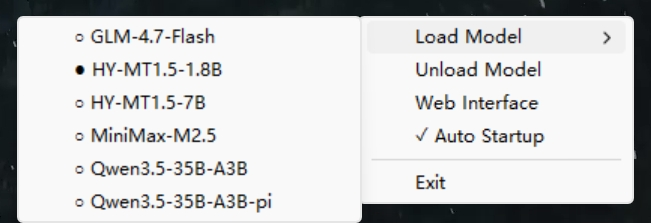
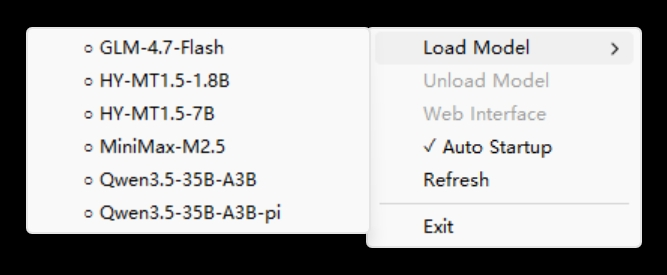
feat(tray): Added configuration refresh functionality
- Add a refresh button to the system tray menu to allow users to reload the configuration and rescan the model.
- Implement the refreshConfigAndModels function to handle configuration reloading and model rescanning logic.
- Updated the README and README_zh.md documents, adding instructions for the configuration refresh function.
- The refresh function can reload the configuration and model list without restarting the program.

diff --git a/main.go b/main.go
@@ -65,6 +65,7 @@ var (
 		unloadModel  *systray.MenuItem
 		webInterface *systray.MenuItem
 		autoStart    *systray.MenuItem
+		refresh      *systray.MenuItem
 		quit         *systray.MenuItem
 		models       []*systray.MenuItem
 		modelConfigs [][]*systray.MenuItem
@@ -662,6 +663,13 @@ func buildMenuOnce() {
 		}
 	}()
 
+	menuItems.refresh = systray.AddMenuItem("Refresh", "Reload config and rescan models")
+	go func() {
+		for range menuItems.refresh.ClickedCh {
+			refreshConfigAndModels()
+		}
+	}()
+
 	systray.AddSeparator()
 
 	menuItems.quit = systray.AddMenuItem("Exit", "Exit program")
@@ -1077,4 +1085,62 @@ func waitForModelShutdown(instance *modelInstance) {
 			return
 		}
 	}
+}
+
+func refreshConfigAndModels() {
+	if err := loadConfig(); err != nil {
+		log.Printf("Failed to reload config: %v", err)
+		return
+	}
+
+	models, err := findGGUFFiles(config.ModelDir)
+	if err != nil {
+		log.Printf("Error scanning model files: %v", err)
+		return
+	}
+
+	currentModels = models
+
+	for i := 0; i < len(menuItems.models); i++ {
+		menuItems.models[i].Hide()
+	}
+
+	menuItems.models = []*systray.MenuItem{}
+	menuItems.modelConfigs = [][]*systray.MenuItem{}
+
+	for i := 0; i < len(currentModels); i++ {
+		m := currentModels[i]
+
+		modelConfigs := []ModelConfig{}
+		for _, cfg := range config.ModelSpecificArgs {
+			if cfg.Target == m.BaseName {
+				modelConfigs = append(modelConfigs, cfg)
+			}
+		}
+
+		if len(modelConfigs) > 0 {
+			for configIdx, cfg := range modelConfigs {
+				item := menuItems.loadModel.AddSubMenuItem(cfg.Name, "")
+				menuItems.models = append(menuItems.models, item)
+
+				go func(modelIdx int, cfgIdx int, menuItem *systray.MenuItem) {
+					for range menuItem.ClickedCh {
+						loadModel(modelIdx, cfgIdx)
+					}
+				}(i, configIdx, item)
+			}
+		} else {
+			item := menuItems.loadModel.AddSubMenuItem(m.BaseName, "")
+			menuItems.models = append(menuItems.models, item)
+
+			go func(modelIdx int, menuItem *systray.MenuItem) {
+				for range menuItem.ClickedCh {
+					loadModel(modelIdx, -1)
+				}
+			}(i, item)
+		}
+	}
+
+	refreshMenuState()
+	log.Printf("Config reloaded and models rescanned. Found %d models.", len(currentModels))
 }

diff --git a/README.md b/README.md
@@ -35,6 +35,7 @@ The embedded llama-server is compiled specifically for ROCm GFX1151 architecture
  - **Multi-Configuration Support**: Multiple configurations for the same model, each displayed as a separate option
  - **Automatic Web Browser Launch**: Option to automatically open web interface when models load
  - **Model Exclusion Patterns**: Support for excluding specific models or folders using glob patterns
+ - **Config Refresh**: Refresh button to reload configuration and rescan models without restarting
 
  ### lmc (Terminal UI)
 

diff --git a/README_zh.md b/README_zh.md
@@ -35,6 +35,7 @@ lmgo 是一个用于运行本地大语言模型的工具套件，使用 llama.cp
  - **多配置支持**：同一模型支持多个配置，每个配置显示为独立选项
  - **自动浏览器启动**：模型加载时自动打开 Web 界面
  - **模型排除模式**：支持使用 glob 模式排除特定模型或文件夹
+ - **配置刷新**：刷新按钮可重新加载配置并重新扫描模型，无需重启程序
 
  ### lmc (终端 UI)
 
